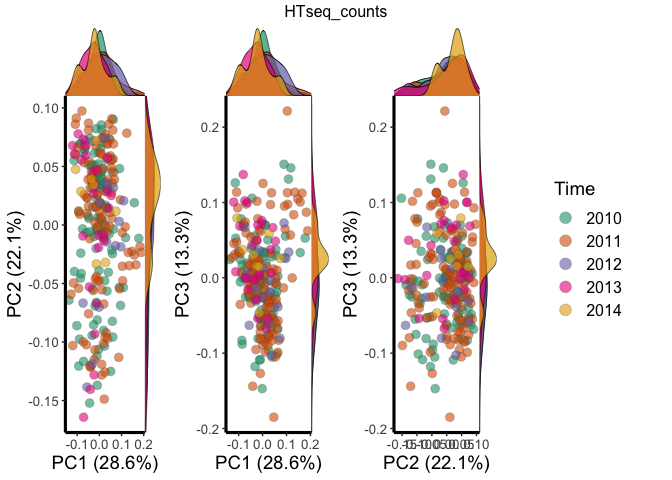
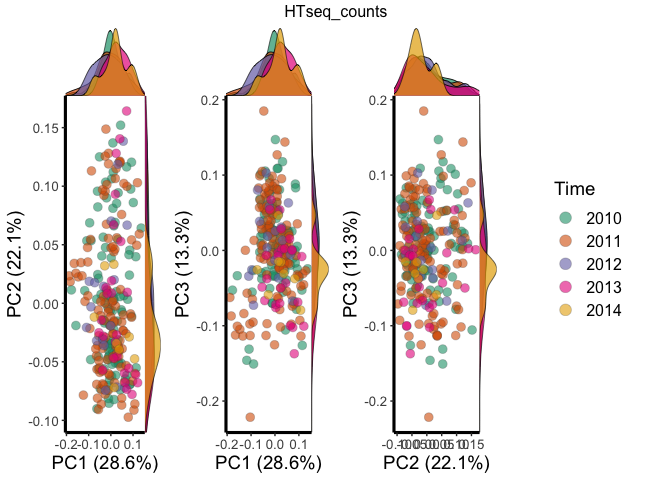
Updating readme with updated install method.

diff --git a/README.md b/README.md
@@ -23,7 +23,7 @@ You can install the development version of tgcapkg from
 
 ``` r
 # install.packages("devtools")
-devtools::install_github("AbhishekSinha28/tgcapkg", ref="master", auth_token = "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")
+devtools::install_github("AbhishekSinha28/tgcapkg", ref="master")
 ```
 
 ## TCGA Functionality
@@ -165,11 +165,64 @@ ruv.prps.plot(data = filtered.data3)
 
 ## PRPS Generation
 
+``` r
+df9 <- get.prps(data=filtered.data3, batch=c('Year', 'Plates'), biology='biology', purity=NULL, include.ls=T, include.purity=F, n.ls.ps=10, n.sample.batch=3, n.sample.purity=0, n.sample.ls=3)
+```
+
 ## RUV-III
+
+``` r
+### data input
+library(SummarizedExperiment)
+### PRPS values
+prps.batch <- df9$ps.batch
+colnames(prps.batch) <- unlist(lapply(
+  colnames(prps.batch),
+  function(x) strsplit(x, '-')[[1]][1]
+))
+prps.ls <- df9$ps.ls
+
+
+raw.data <- as.matrix(SummarizedExperiment::assay(filtered.data3, 'HTseq_counts'))
+ruv.data <- cbind(raw.data ,prps.batch ,prps.ls )
+ruv.data <- t(log2(ruv.data + 1)) # Taking Log 
+
+### replicate matrix
+ruv.rep <- ruv::replicate.matrix(row.names(ruv.data))
+
+gene.annot <-  as.data.frame(SummarizedExperiment::rowData(filtered.data3))
+
+### NCG sets - Select House Keeping Genes
+ncg.set <- colnames(ruv.data) %in% gene.annot$Gene_symbol[gene.annot$RNAseq_HK == 'yes']
+```
+
+``` r
+library(BiocParallel)
+library(BiocSingular)
+df10 <- get.ruv(ruv.data = ruv.data, ruv.rep = ruv.rep, ncg.set = ncg.set, k=1, 
+                BSPARAM = BiocSingular::bsparam(), return.info = TRUE)
+```
 
 # Combined Analysis
 
 ## Combined data
+
+``` r
+#library(SummarizedExperiment)
+gene.annot <-  as.data.frame(SummarizedExperiment::rowData(filtered.data3))
+
+sample.info <-  as.data.frame(SummarizedExperiment::colData(filtered.data3))
+
+ruv.iii.adj <- t(df10$new.ruv.data[1:ncol(raw.data) , ]) # transpose
+
+raw.count <- SummarizedExperiment::assay(filtered.data3, 'HTseq_counts')
+raw.count <- log2(raw.count + 1) # Taking Log 
+fpkm <- SummarizedExperiment::assay(filtered.data3, 'HTseq_FPKM')
+fpkm <- log2(fpkm + 1) # Taking Log 
+fpkm.uq <- SummarizedExperiment::assay(filtered.data3, 'HTseq_FPKM.UQ')
+fpkm.uq <- log2(fpkm.uq + 1) # Taking Log 
+RUV_III <- ruv.iii.adj
+```
 
 ``` r
 combined_data <- SummarizedExperiment(assays = list(HTseq_counts = raw.count, HTseq_FPKM = fpkm,
@@ -192,6 +245,10 @@ combined_data
 ```
 
 ## PCA on Combined Data
+
+``` r
+df11 <- get.pca(data = combined_data, nPcs = 7, is.log = TRUE)
+```
 
 ## PCs correlation with unwanted variations in Combined Data
 
